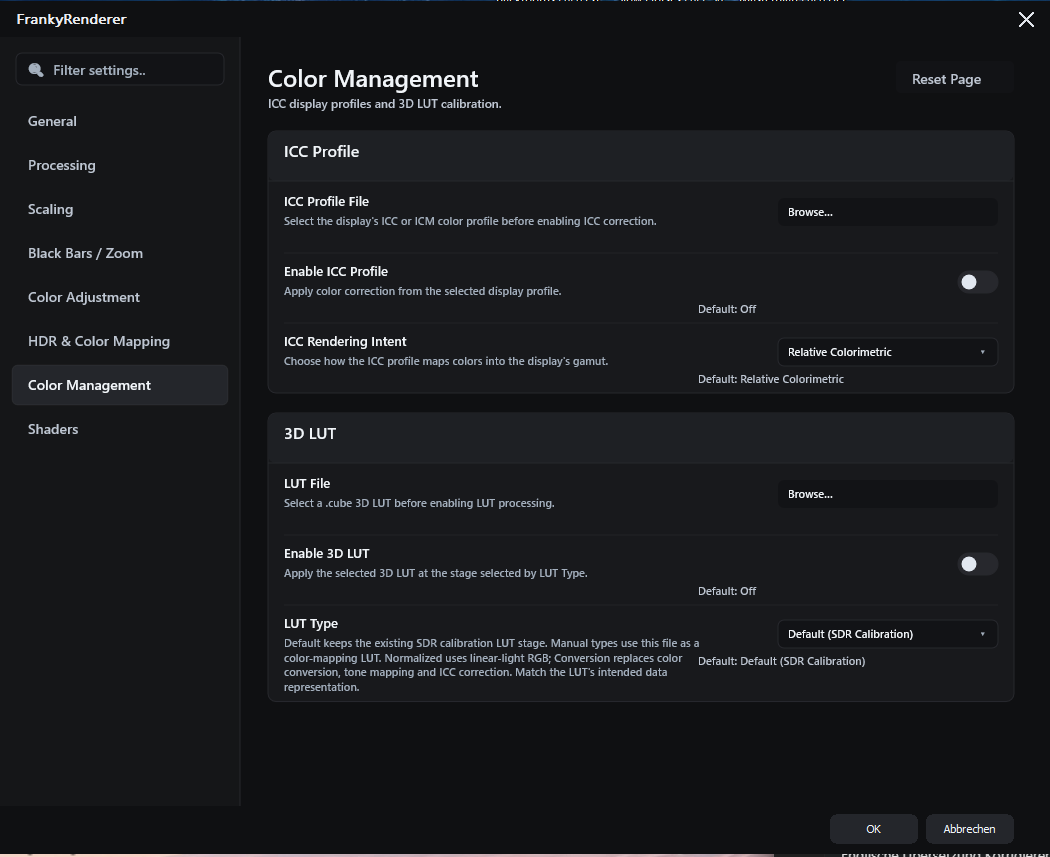
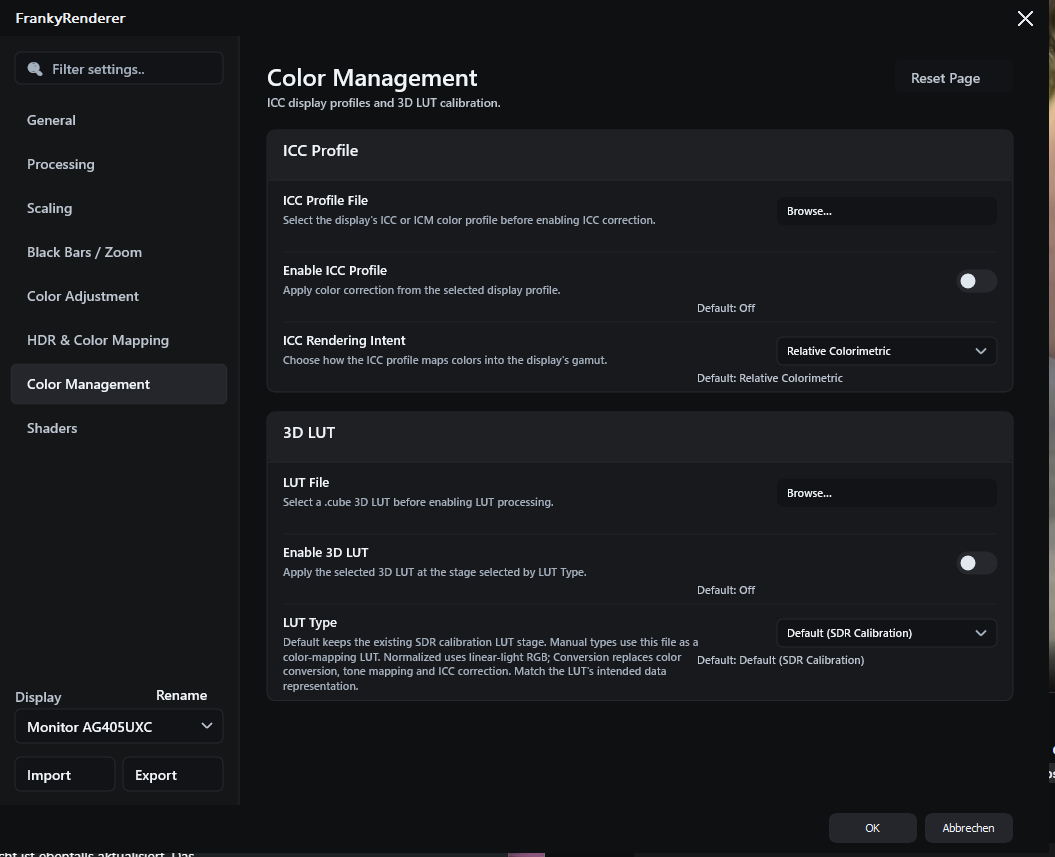
Replace overview screenshots with current 1.0.3 settings

diff --git a/README.md b/README.md
@@ -26,9 +26,13 @@ General and presentation settings:
 
 ![FrankyRenderer General and Presentation settings](docs/screenshots/general.png)
 
-Processing — debanding, sharpening, deinterlacing and dithering:
+Scaling and frame mixing:
 
-![FrankyRenderer Processing settings](docs/screenshots/processing.png)
+![FrankyRenderer Scaling and Frame Mixing settings](docs/screenshots/scaling.png)
+
+Color Adjustment:
+
+![FrankyRenderer Color Adjustment settings](docs/screenshots/color-adjustment.png)
 
 HDR and Color Mapping:
 
